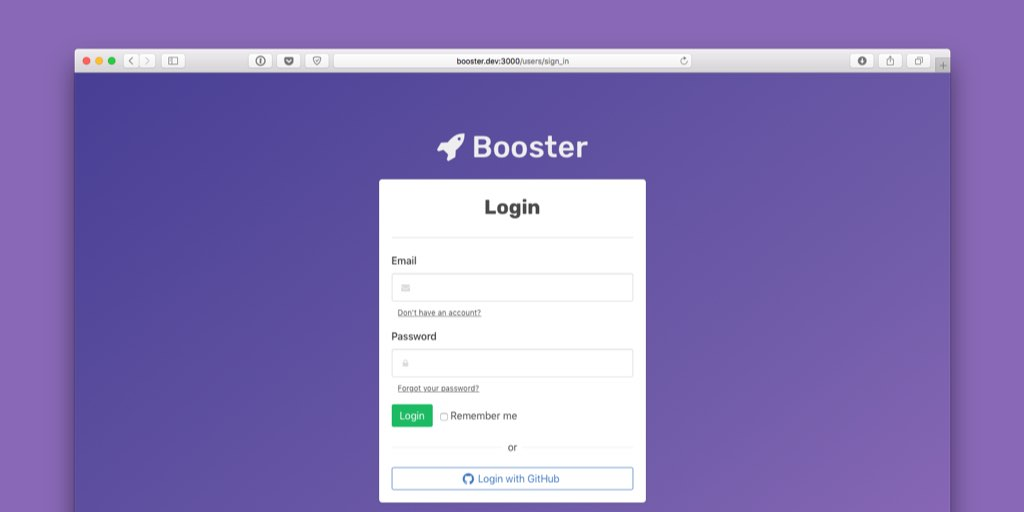
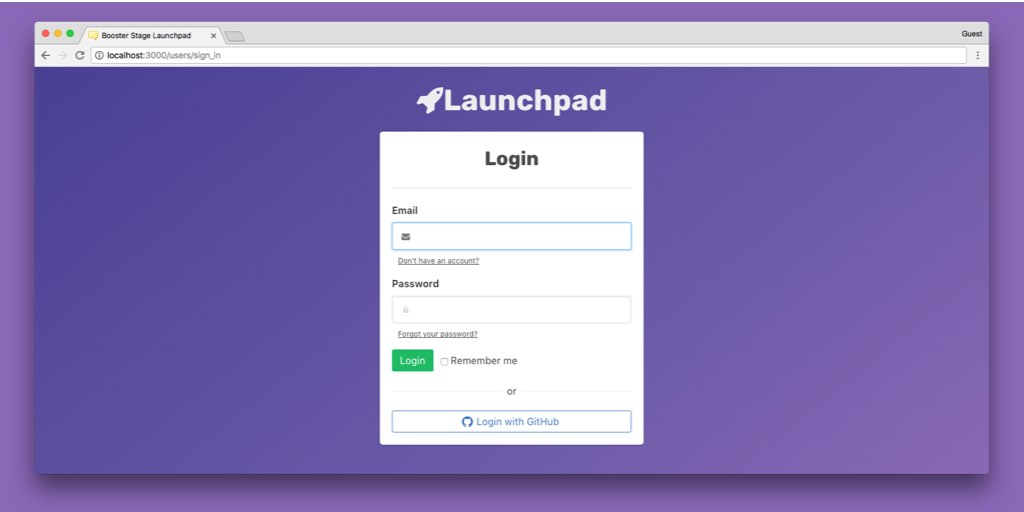
Updated Launchpad page.

Changed region(s): [[0.0, 0.0, 1.0, 1.0], [0.3438, 0.25, 0.6562, 0.625]]

diff --git a/assets/stylesheets/main.scss b/assets/stylesheets/main.scss
@@ -13,3 +13,4 @@
 @import 'tables';
 @import 'typography';
 @import '~bulma-pricingtable/pricing-table';
+@import 'launchpad';

diff --git a/assets/stylesheets/_launchpad.sass b/assets/stylesheets/_launchpad.sass
@@ -1,0 +1,6 @@
+.tile.features
+  h3
+    font-size: $size-6
+    font-weight: $weight-bold
+  p
+    font-size: $size-7
